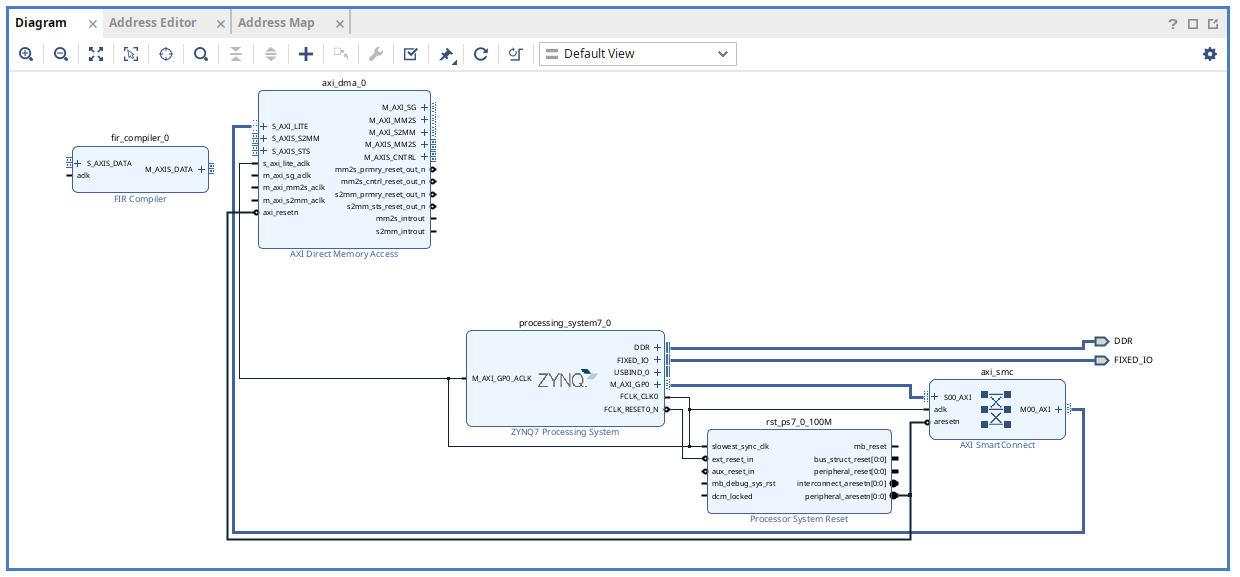
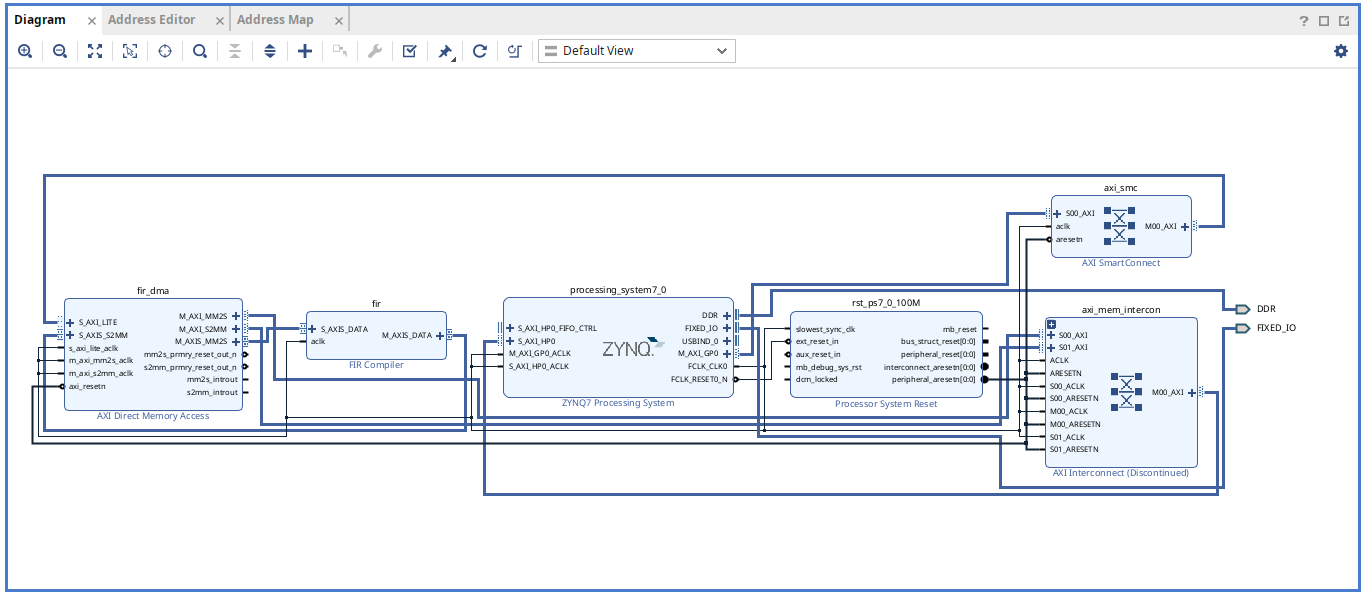
tmp: progress commit

diff --git a/labs/lab1.md b/labs/lab1.md
@@ -124,24 +124,56 @@ Now we are ready to get started. Open up Vivado and create a new project.
 
 //! Picture for adding ZYNQ7 Processing System (HP slave port)
 
-3. Add the Direct Memory Access (DMA). <TODO: add explanation>
+3. Add the `Direct Memory Access` (DMA) block. <TODO: add explanation>
 ![Add AXI Direct Memory Access (DMA)](/images/dma.png)
 
-4. Add the FIR filter: Vivado provides a wizard called the FIR Compiler which helps you to design your own filter. See <TODO: for more details>
+3.1 Double click on the `AXI DMA` block to customise it.
+3.2 Disable `Enable Scatter Gather Engine`,
+3.3 Maximise the size of the `Width of Buffer Length Register` to 26 bits.
+3.4 Press ok to exit the wizard.
+
+4. Add the FIR filter: Vivado provides a wizard called the `FIR Compiler` which helps you to design your own filter. See <TODO: for more details>
 ![Add FIR Compiler Block](/images/fir_compiler.png)
 
-5. Run Block Automation <TODO: What does this do?>
+4.1. Create the FIR filter by specifying the coefficients. Double click on the FIR Compiler block to customise the IP, and paste in the following coefficients: <TODO: should students be deriving/designing the coefficients on their own?> 
+```
+-255, -260, -312, -288, -144, 153, 616, 1233, 1963, 2739, 3474, 4081, 4481, 4620, 4481, 4081, 3474, 2739, 1963, 1233, 616, 153, -144, -288, -312, -260, -255
+```
+
+4.2 Next: On the `Channel Specification` tab: change the `Input Sampling Frequency` and the `Clock Frequency` to 100MHz. Thus each clock tick on the FPGA will feed one input to the FIR filter.
+
+4.3 On the Implementation tab: we should change the `Input Data Width` to 32 bits. We also want the output to have 32 bits, so select the `Output Rounding Mode` to `Non Symmetric Rounding Up` and then change the `Output Width` to 32 bits.
+
+4.4 In the `Interface` tab, we specify how this block should communicate on the AXI bus, in this case, we should enable `Output TREADY` and `TLAST` via `Packet Framing`. It is slightly out of scope to read into the AXI protocol, but if you are interested, you may want to read up on it.
+
+4.5 Press OK to end the customise IP wizard.
+
+5. Connect the DMA to the FIR Compiler block:
+5.1 We connect the `M_AXIS_DATA` from the output of the FIR compiler to the `S_AXIS_S2MM` (Slave AXI interface for Stream-to-Memory-Mapped transfers) input port of the AXI DMA Block. 
+5.2 Then, we connect the `M_AXI_S2MM` (Master AXI interface for Stream-to-Memory-Mapped transfers) ouput port of the DMA to the `S_AXIS_DATA` input port of the FIR Compiler. This allows us to feed a memory-mapped data format used by the DMA into the streaming input of signal data that the FIR compiler expects.
+5.3: Your block diagram should look like this:
+![DMA to FIR Compiler Connections](/images/dma_to_fir_connection.png)
+
+6. Now, we connect this up to the ZYNQ Processing System, so that the DMA can access the DDR Memory that is present in the PS.
+
+6.1 Double click the ZYNQ7 Processing System to edit it, and double click on the `High Performance AXI Slave Ports` to edit them.
+6.2 Enable one port, for example the `HP0` port.
+6.3 Then save and exit the customization.
+
+![Zynq Block Design](/images/zynq-block-design.png)
+
+7. Run Block Automation <TODO: What does this do?>
 
 ![Block Automation](/images/block_automation.png)
 
-6. Run Connection Automation, Vivado intelligently maps input ports and output ports together.
+8. Run Connection Automation, Vivado intelligently maps input ports and output ports together. Select all the ports in the tree view.
 
 ![Connection Automation](/images/connection_automation.png)
 
+9. Rename the `FIR Compiler` block to `fir`, and the `AXI DMA` block to `fir_dma`. This will make it cleaner to access in the Jupyter Notebook when we are utilising these accelerators.
 You should have a design that looks something like this:
 
 ![Final Block Design](/images/final_block_design.png)
-
 
 ### Exporting the hardware
 
